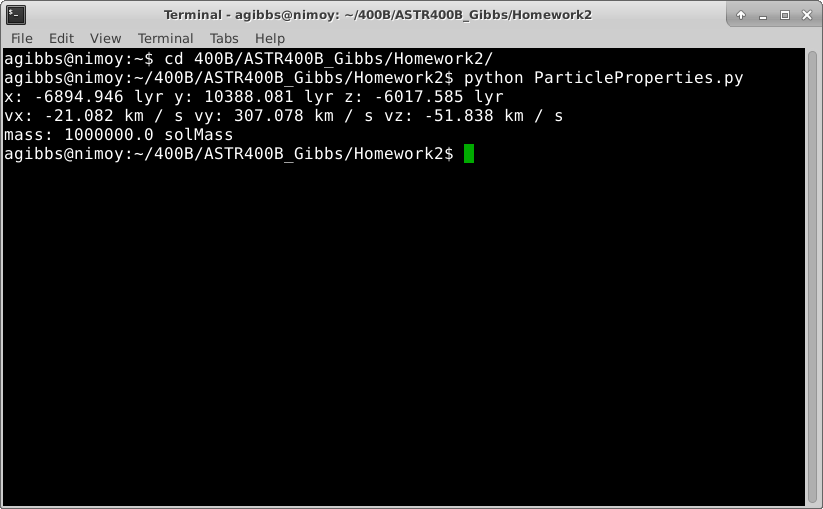
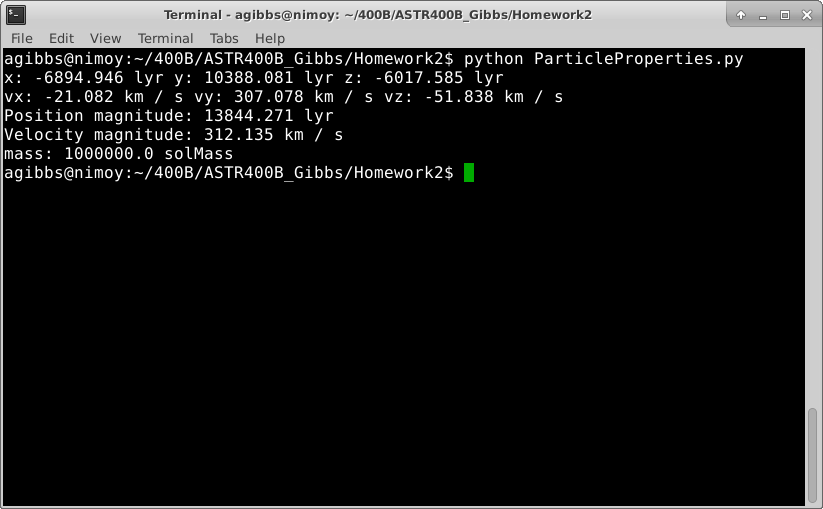
Added magnitudes of position and velocity

Changed region(s): [[0.0, 0.0884, 0.9113, 0.3536], [0.9721, 0.0884, 1.0, 0.8251]]

diff --git a/Homework2/ParticleProperties.py b/Homework2/ParticleProperties.py
@@ -16,7 +16,7 @@ def ParticleInfo(particle_type, particle_num): #returns properties for any parti
     vx = np.around( data['vx'][index] * u.km / u.s, 3 )
     vy = np.around( data['vy'][index] * u.km / u.s, 3 )
     vz = np.around( data['vz'][index] * u.km / u.s, 3 )
-    m = np.around( data['m'][index] * 1e10  * u.Msun, 3 )
+    m = data['m'][index] * 1e10  * u.Msun
 
     n = particle_num #to make the next line shorter
     return x[n], y[n], z[n], vx[n], vy[n], vz[n], m[n]
@@ -27,4 +27,6 @@ xn, yn, zn = x.to(u.lyr), y.to(u.lyr), z.to(u.lyr) #convert distance to light ye
 #print to terminal
 print('x:', np.around(xn, 3), 'y:', np.around(yn, 3), 'z:', np.around(zn, 3)) #keep 3 decimals
 print('vx:', vx, 'vy:', vy, 'vz:', vz)
+print('Position magnitude:', np.around( (xn**2 + yn**2 + zn**2)**0.5, 3) )
+print('Velocity magnitude:', np.around( (vx**2 + vy**2 + vz**2)**0.5, 3) )
 print('mass:', m)
